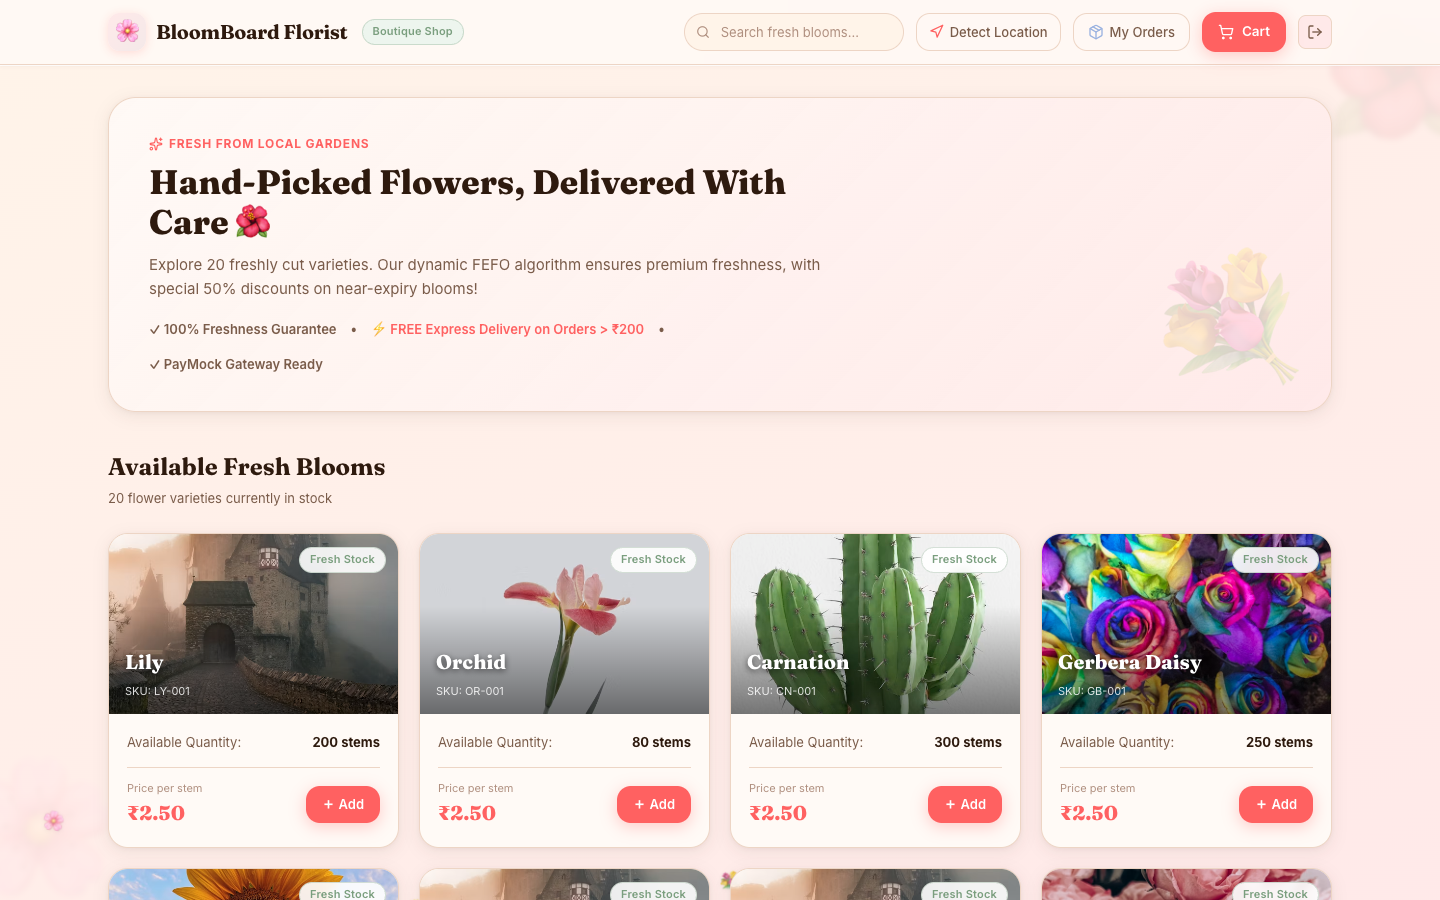
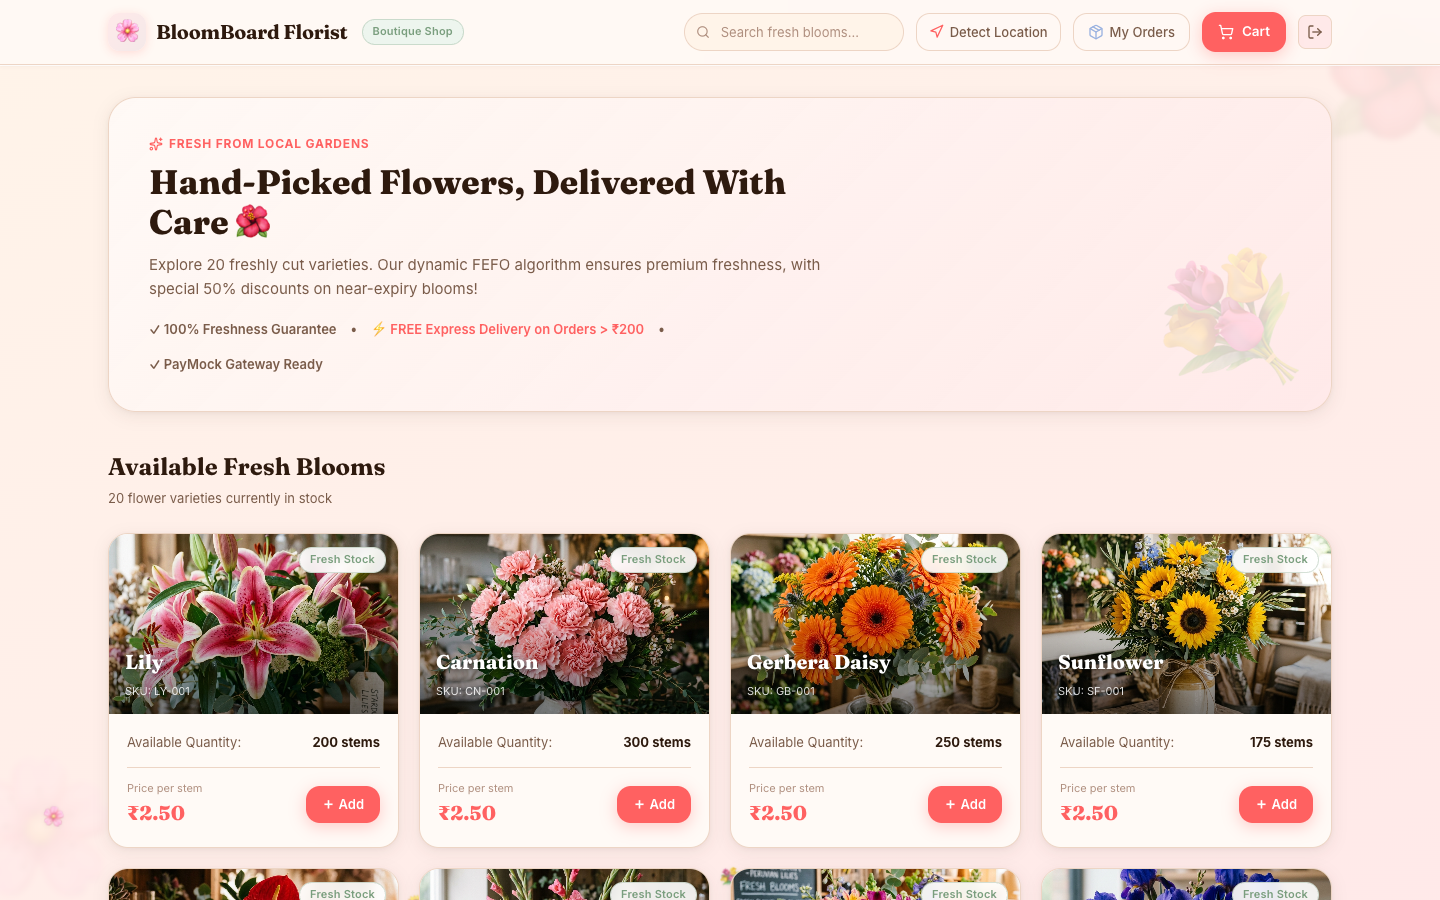
Integrate studio-grade botanical photography for all flower varieties across storefront

Changed region(s): [[0.0625, 0.5911, 0.9375, 0.8089], [0.0625, 0.9644, 0.9375, 1.0], [0.0312, 0.9022, 0.0625, 0.9333]]

diff --git a/frontend/src/CustomerApp.jsx b/frontend/src/CustomerApp.jsx
@@ -9,26 +9,26 @@ import {
 const PETALS = ['🌸','🌺','🌼','🌻','🌹','💐','🌷','🏵','🌸','🌼'];
 
 const FLOWER_IMAGES = {
-  'Rose':           '/images/flower_rose.png',
-  'Lily':           '/images/flower_lily.png',
-  'Orchid':         '/images/flower_orchid.png',
-  'Carnation':      '/images/flower_carnation.png',
-  'Gerbera':        'https://images.unsplash.com/photo-1508610048659-a06b669e3321?auto=format&fit=crop&w=600&q=80',
-  'Tulip':          'https://images.unsplash.com/photo-1520763185298-1b434c919102?auto=format&fit=crop&w=600&q=80',
-  'Chrysanthemum':  'https://images.unsplash.com/photo-1568605117036-5fe5e7bab0b7?auto=format&fit=crop&w=600&q=80',
-  'Sunflower':      '/images/flower_sunflower.png',
-  'Anthurium':      'https://images.unsplash.com/photo-1602615576820-ea14b9e77d28?auto=format&fit=crop&w=600&q=80',
-  'Gladiolus':      'https://images.unsplash.com/photo-1589217157232-4a29e20b6846?auto=format&fit=crop&w=600&q=80',
-  'Alstroemeria':   'https://images.unsplash.com/photo-1582794543139-8ac9cb0f7b11?auto=format&fit=crop&w=600&q=80',
-  'Iris':           'https://images.unsplash.com/photo-1565193566173-7a0ee3dbe261?auto=format&fit=crop&w=600&q=80',
-  'Lisianthus':     'https://images.unsplash.com/photo-1533616688419-b7a585564566?auto=format&fit=crop&w=600&q=80',
-  'Ranunculus':     'https://images.unsplash.com/photo-1566835154388-b2a608d249f1?auto=format&fit=crop&w=600&q=80',
-  'Peony':          '/images/flower_peony.png',
-  'Bird of Paradise': 'https://images.unsplash.com/photo-1508610048659-a06b669e3321?auto=format&fit=crop&w=600&q=80',
-  'Freesia':        'https://images.unsplash.com/photo-1519378304606-27b43f5c678a?auto=format&fit=crop&w=600&q=80',
-  'Stock Flower':   'https://images.unsplash.com/photo-1526047932273-341f2a7631f9?auto=format&fit=crop&w=600&q=80',
-  'Snapdragon':     'https://images.unsplash.com/photo-1563245372-f21724e3856d?auto=format&fit=crop&w=600&q=80',
-  'Hydrangea':      'https://images.unsplash.com/photo-1501004318641-b39e6451bec6?auto=format&fit=crop&w=600&q=80',
+  'Rose':             '/images/flower_rose.png',
+  'Lily':             '/images/flower_lily.png',
+  'Orchid':           '/images/flower_orchid.png',
+  'Carnation':        '/images/flower_carnation.png',
+  'Gerbera':          '/images/flower_gerbera.png',
+  'Tulip':            '/images/flower_tulip.png',
+  'Chrysanthemum':    '/images/flower_chrysanthemum.png',
+  'Sunflower':        '/images/flower_sunflower.png',
+  'Anthurium':        '/images/flower_anthurium.png',
+  'Gladiolus':        '/images/flower_gladiolus.png',
+  'Alstroemeria':     '/images/flower_alstroemeria.png',
+  'Iris':             '/images/flower_iris.png',
+  'Lisianthus':       '/images/flower_lisianthus.png',
+  'Ranunculus':       '/images/flower_ranunculus.png',
+  'Peony':            '/images/flower_peony.png',
+  'Bird of Paradise': '/images/flower_bird_of_paradise.png',
+  'Freesia':          '/images/flower_freesia.png',
+  'Stock Flower':     '/images/flower_stock_flower.png',
+  'Snapdragon':       '/images/flower_snapdragon.png',
+  'Hydrangea':        'https://images.unsplash.com/photo-1501004318641-b39e6451bec6?auto=format&fit=crop&w=600&q=80',
 };
 
 function getFlowerImage(name) {
